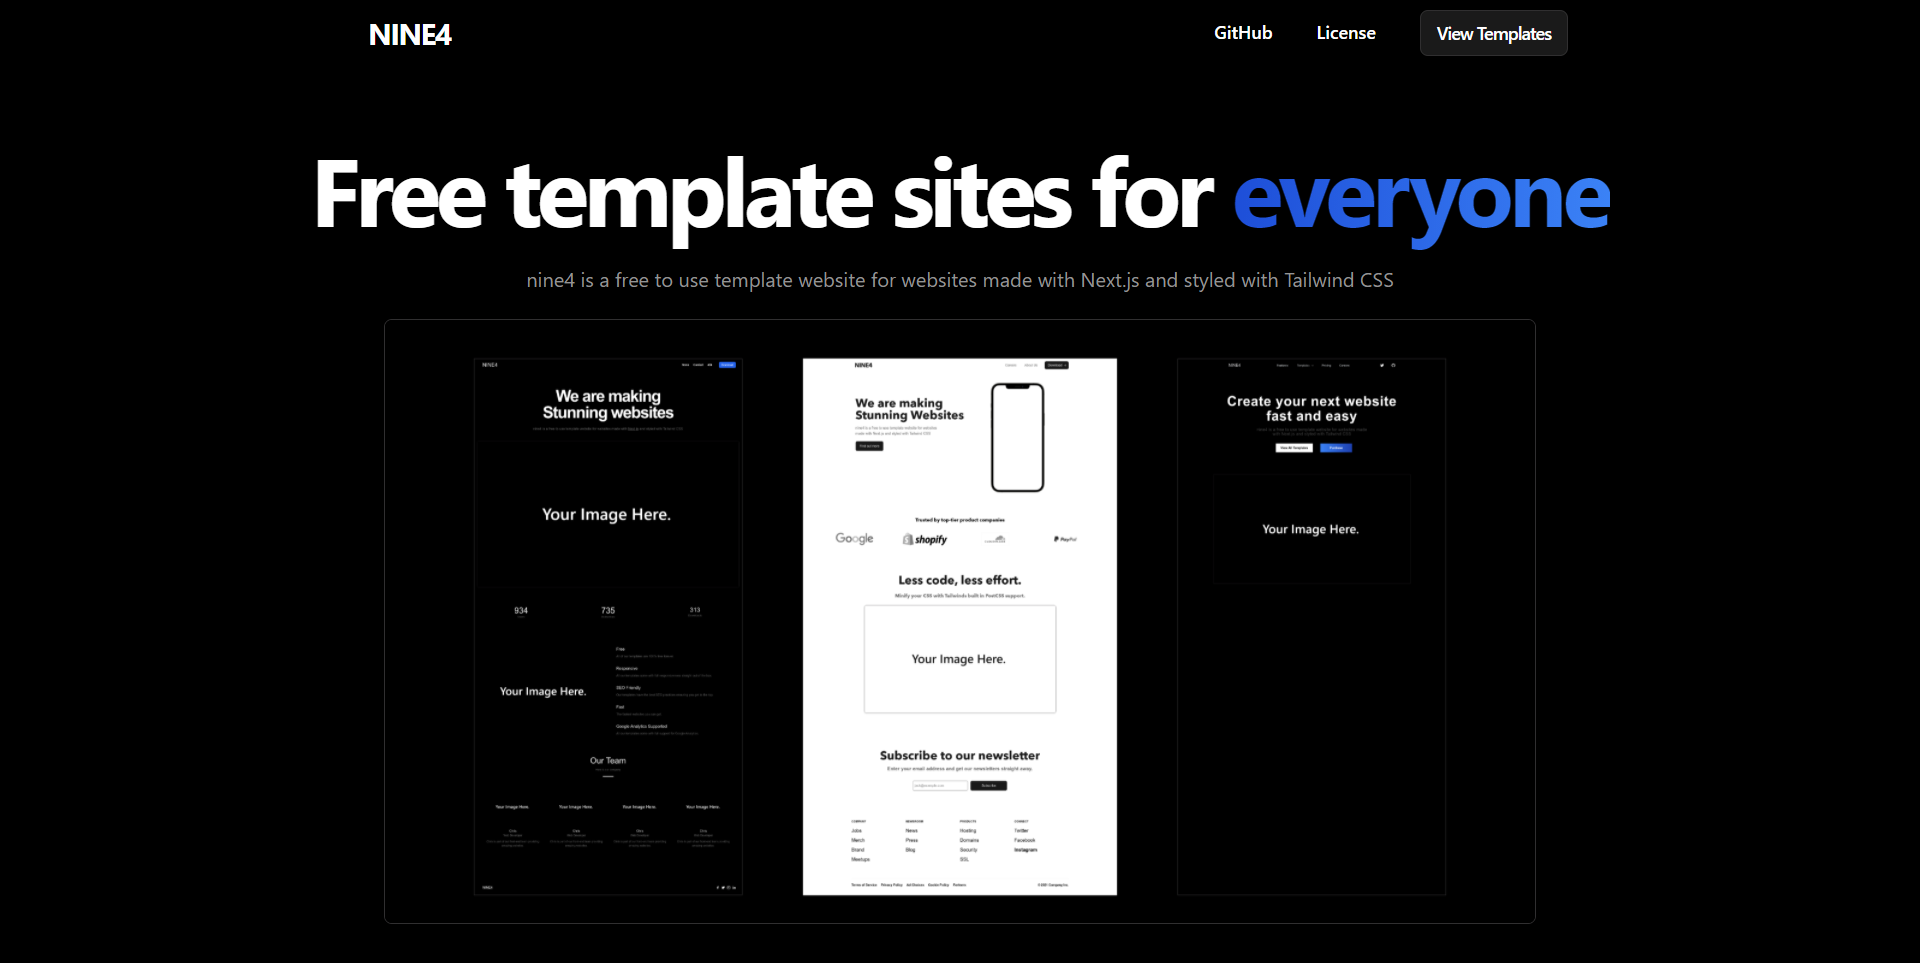
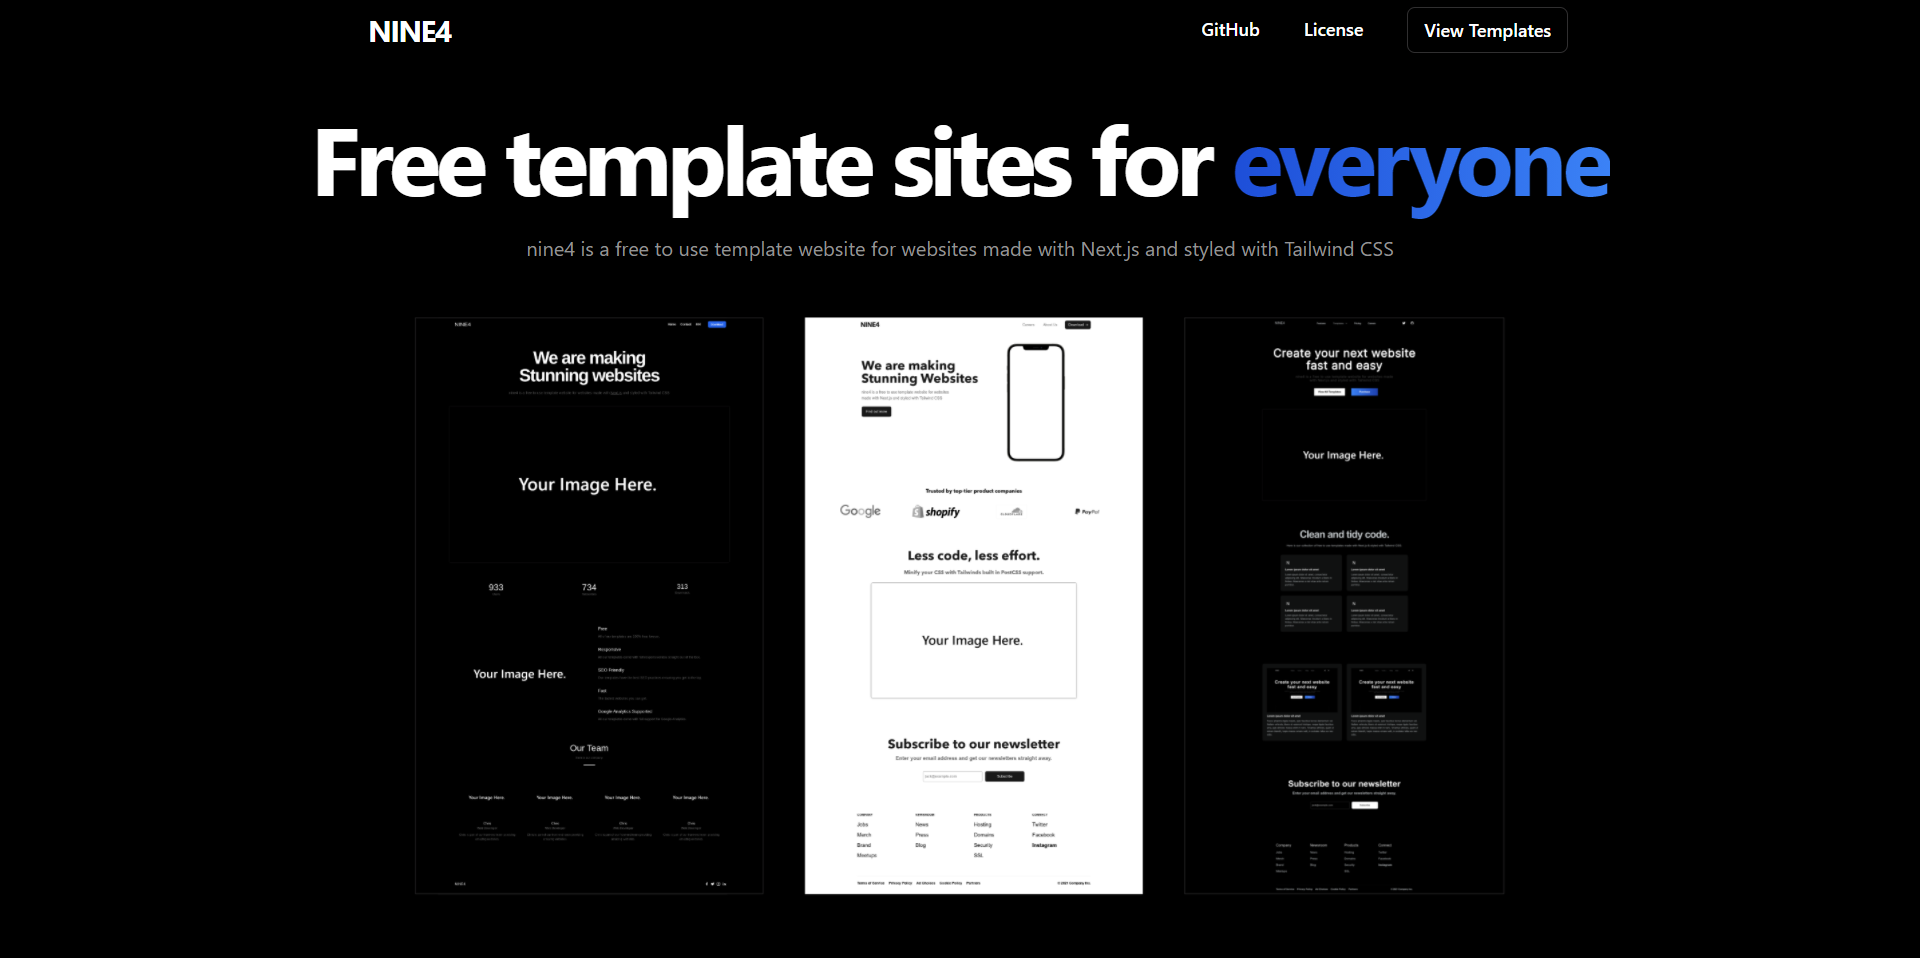
done(image): template#3 finished

diff --git a/components/Layout.js b/components/Layout.js
@@ -1,8 +1,8 @@
 export default function Main() {
   return (
-    <section className="text-black body-font lg:pt-14">
+    <section className="text-black body-font lg:pt-7">
       <div className="container px-5 mx-auto lg:px-4 lg:py-4">
-        <div className="flex flex-col w-full mb-2 text-left md:text-center ">
+        <div className="flex flex-col w-full text-left md:text-center ">
           <h1 className="mb-1 text-6xl font-bold tracking-tighter text-center text-white lg:text-8xl md:text-7xl">
             Free template sites for{" "}
             <span className="bg-clip-text text-transparent bg-gradient-to-r from-blue-700 to-blue-500">
